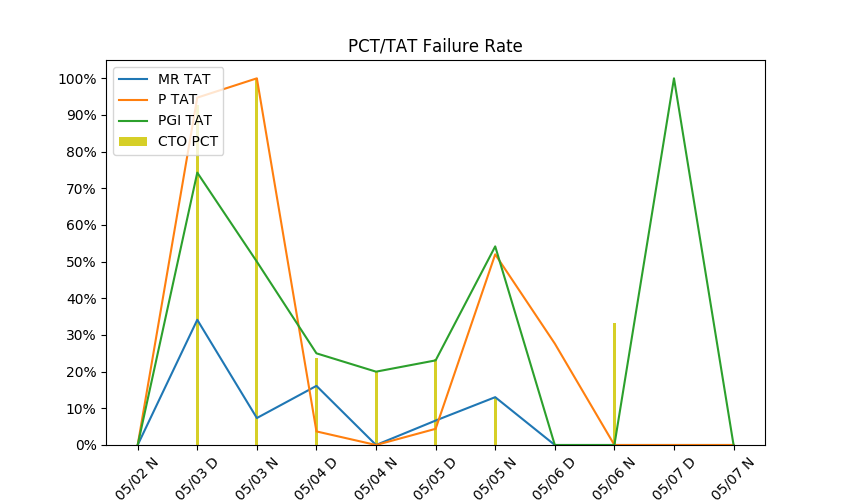
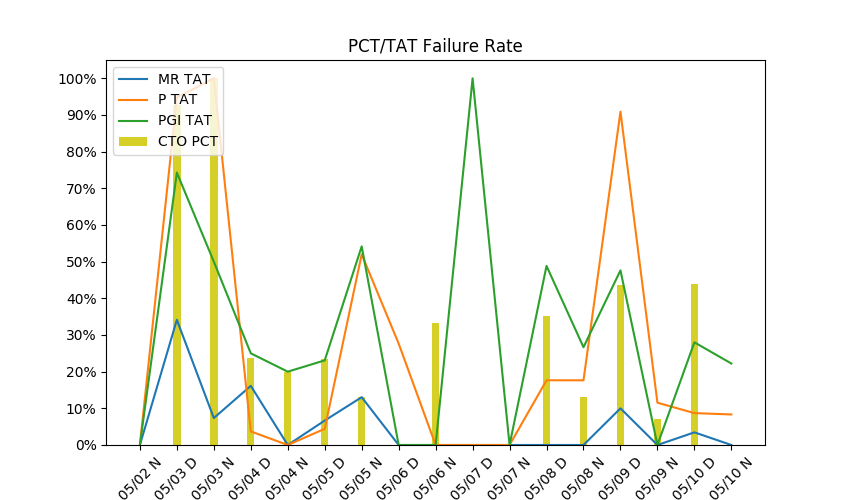
updates

Changed region(s): [[0.1224, 0.15, 0.8871, 1.0]]

diff --git a/Dashboard/write_message.py b/Dashboard/write_message.py
@@ -8,8 +8,6 @@ def write_message(Type, Target, From, To, WorkingDay, WorkingHour, URL, Shift):
 	Sum = 0
 	Sum_Fail = 0
 	Failure_Rate = 0
-	if (Type == 'PC'):
-		Type = 'CTO'
 	# Get PCT data in 12 hours from 112 DB
 	conn = pymssql.connect("16.187.224.112", "sa", "support", "FE2CheckPoint")
 	cursor = conn.cursor(as_dict=True)
@@ -193,12 +191,15 @@ def write_message(Type, Target, From, To, WorkingDay, WorkingHour, URL, Shift):
 		""".format(Sum = Sum, Sum_Fail = Sum_Fail, Failure_Rate = "{:.0%}".format(Failure_Rate))
 
 		# Record FailRate for plot
-		if (Type == 'CTO'):
+		if (Type == 'PC'):
+			Type = 'CTO'
 			Sum = Count[Type]['Total']
 			Sum_Fail = Count[Type]['Fail']
 			if Sum != 0:
 				Failure_Rate = Sum_Fail/Sum
-		
+	
+	if (Type == 'PC'):
+		Type = 'CTO'
 	# Save failure rate data to 112 DB
 	conn = pymssql.connect("16.187.224.112", "sa", "support", "FE2CheckPoint")
 	cursor = conn.cursor(as_dict=True)

diff --git a/dev/write_message.py b/dev/write_message.py
@@ -8,8 +8,6 @@ def write_message(Type, Target, From, To, WorkingDay, WorkingHour, URL, Shift):
 	Sum = 0
 	Sum_Fail = 0
 	Failure_Rate = 0
-	if (Type == 'PC'):
-		Type = 'CTO'
 	# Get PCT data in 12 hours from 112 DB
 	conn = pymssql.connect("16.187.224.112", "sa", "support", "FE2CheckPoint")
 	cursor = conn.cursor(as_dict=True)
@@ -193,12 +191,15 @@ def write_message(Type, Target, From, To, WorkingDay, WorkingHour, URL, Shift):
 		""".format(Sum = Sum, Sum_Fail = Sum_Fail, Failure_Rate = "{:.0%}".format(Failure_Rate))
 
 		# Record FailRate for plot
-		if (Type == 'CTO'):
+		if (Type == 'PC'):
+			Type = 'CTO'
 			Sum = Count[Type]['Total']
 			Sum_Fail = Count[Type]['Fail']
 			if Sum != 0:
 				Failure_Rate = Sum_Fail/Sum
-		
+	
+	if (Type == 'PC'):
+		Type = 'CTO'
 	# Save failure rate data to 112 DB
 	conn = pymssql.connect("16.187.224.112", "sa", "support", "FE2CheckPoint")
 	cursor = conn.cursor(as_dict=True)

diff --git a/Dashboard/make_plot.py b/Dashboard/make_plot.py
@@ -48,7 +48,7 @@ def make_plot(Shift):
 
 	ind = np.arange(N)    # the x locations for the groups    "{:.0%}".format()
 		
-	width = 0.05       # the width of the bars: can also be len(x) sequence
+	width = 0.2       # the width of the bars: can also be len(x) sequence
 	plt.figure(figsize=(8.5,5))
 	
 	p1 = plt.plot(ind, y['MR_FailRate'])

diff --git a/dev/make_plot.py b/dev/make_plot.py
@@ -48,7 +48,7 @@ def make_plot(Shift):
 
 	ind = np.arange(N)    # the x locations for the groups    "{:.0%}".format()
 		
-	width = 0.05       # the width of the bars: can also be len(x) sequence
+	width = 0.2	# the width of the bars: can also be len(x) sequence
 	plt.figure(figsize=(8.5,5))
 	
 	p1 = plt.plot(ind, y['MR_FailRate'])
